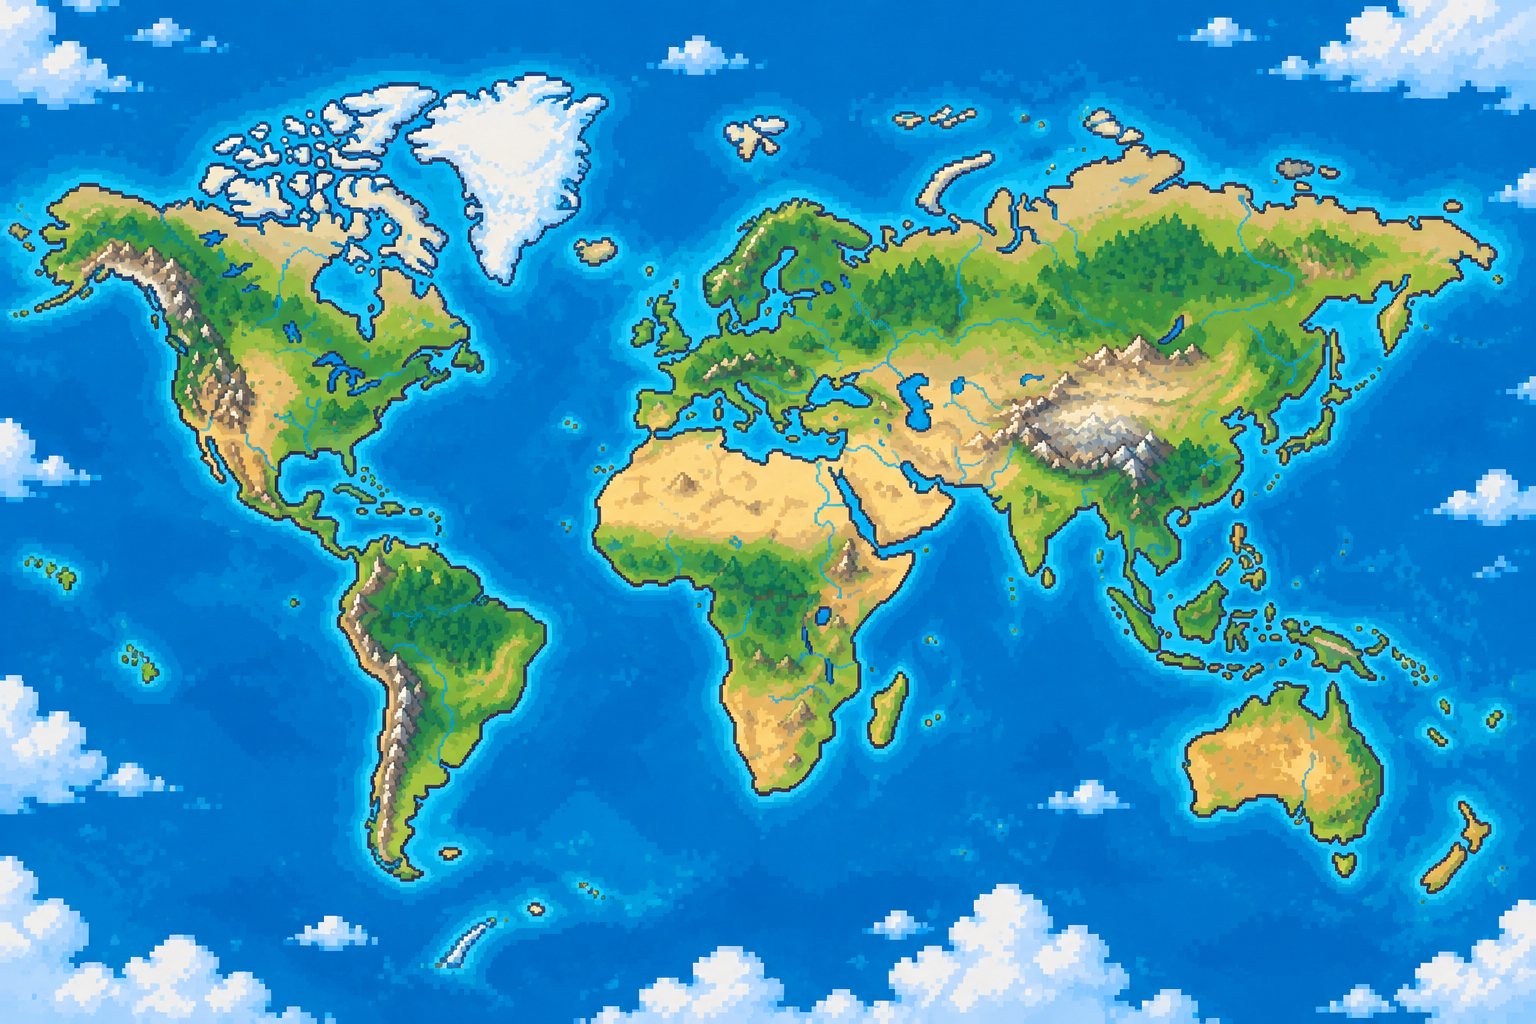
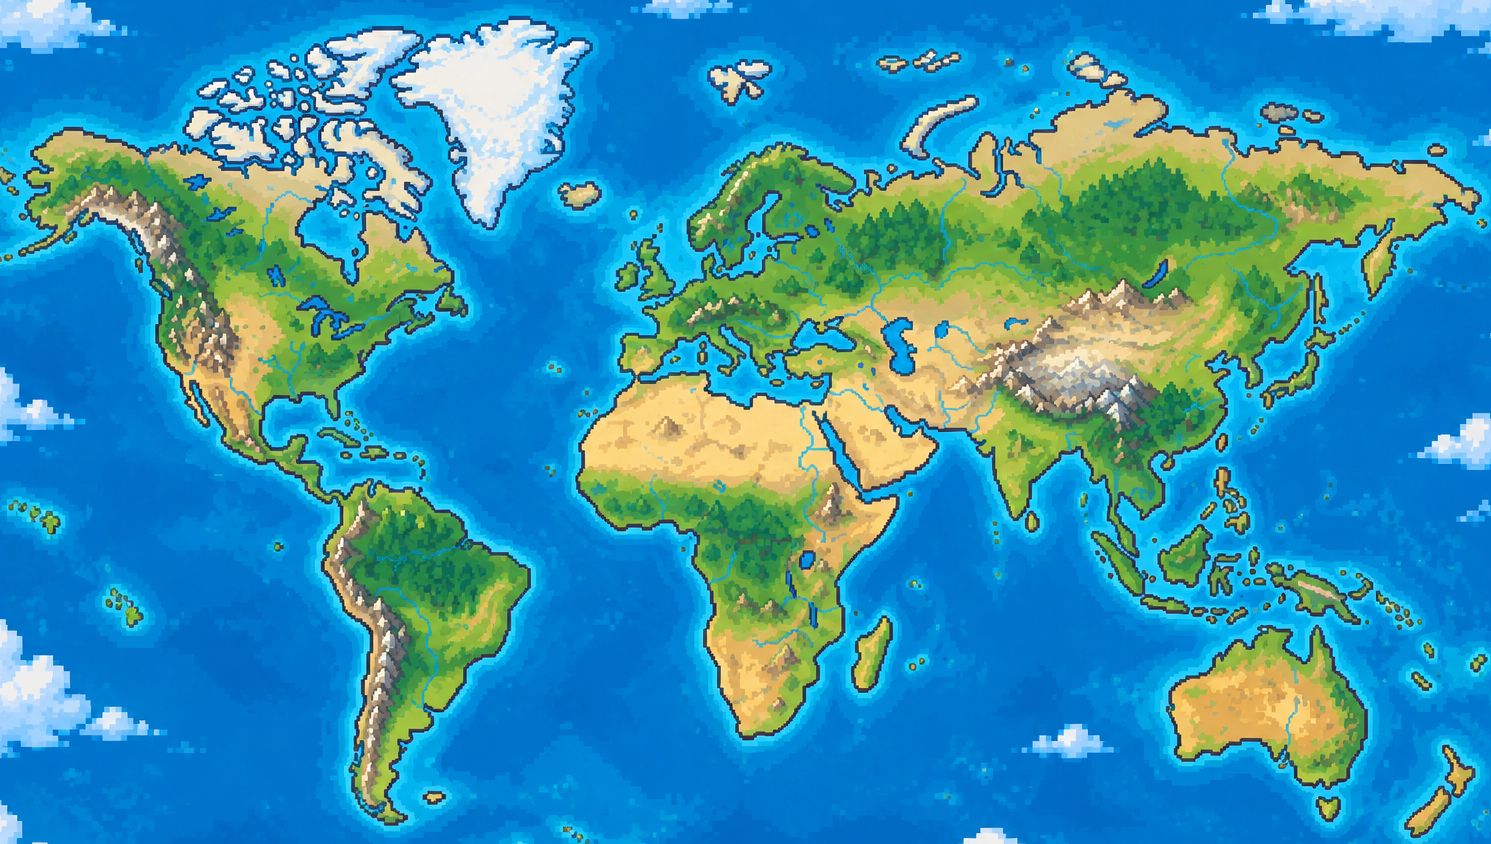
fix map + landscape phone

diff --git a/src/styles/globals.css b/src/styles/globals.css
@@ -52,6 +52,50 @@ a:focus-visible {
   text-transform: uppercase;
 }
 
+.rotate-overlay {
+  display: none;
+}
+
+/* In landscape, a phone's height equals its portrait width, so gate on height
+   (not width) to catch wide phones like the iPhone XR (896x414). */
+@media (orientation: landscape) and (max-height: 500px) {
+  .rotate-overlay {
+    position: fixed;
+    inset: 0;
+    z-index: 9999;
+    display: flex;
+    flex-direction: column;
+    align-items: center;
+    justify-content: center;
+    gap: 0.75rem;
+    padding: 1.5rem;
+    background: #ece9df;
+    text-align: center;
+    overflow: hidden;
+  }
+}
+
+.rotate-overlay__icon {
+  width: min(7rem, 28vw);
+  height: auto;
+  image-rendering: pixelated;
+}
+
+.rotate-overlay__title {
+  margin: 0;
+  font-family: var(--font-game);
+  font-size: 1.75rem;
+  letter-spacing: 1px;
+  color: #1a1a1a;
+}
+
+.rotate-overlay__subtitle {
+  margin: 0;
+  font-family: var(--font-body);
+  font-size: 0.85rem;
+  color: rgba(0, 0, 0, 0.65);
+}
+
 @media (prefers-reduced-motion: reduce) {
   * {
     animation-duration: 0.01ms !important;

diff --git a/src/App.tsx b/src/App.tsx
@@ -5,6 +5,7 @@ import { useDesktopWindows } from "./hooks/useDesktopWindows";
 import type { WindowDesktopProps } from "./components/windows/GameWindow";
 import GameWorld from "./components/game/GameWorld";
 import HUD from "./components/game/HUD";
+import RotateDeviceOverlay from "./components/game/RotateDeviceOverlay";
 import CharacterWindow from "./components/windows/CharacterWindow";
 import QuestWindow from "./components/windows/QuestWindow";
 import InventoryWindow from "./components/windows/InventoryWindow";
@@ -58,6 +59,7 @@ function App() {
   return (
     <div className="app">
       <GameWorld />
+      <RotateDeviceOverlay />
       <HUD
         activeWindow={isMobile ? mobileActiveWindow : null}
         onToggleWindow={handleToggleWindow}

diff --git a/src/styles/windows.css b/src/styles/windows.css
@@ -146,10 +146,6 @@
     justify-self: start;
   }
 
-  .world-map {
-    height: 14rem;
-  }
-
   .world-map__marker {
     width: 22px;
   }
@@ -759,10 +755,12 @@
 }
 
 /* World map window */
+/* Canvas keeps the native world-map.png aspect ratio at every size so
+   marker percentage coordinates always map to the same visual position. */
 .world-map {
   position: relative;
-  height: clamp(26rem, 62vh, 34rem);
   margin: -0.85rem -1rem;
+  aspect-ratio: 1491 / 844;
   overflow: hidden;
 }
 
@@ -770,7 +768,7 @@
   display: block;
   width: 100%;
   height: 100%;
-  object-fit: cover;
+  object-fit: contain;
   object-position: center;
   image-rendering: pixelated;
 }

diff --git a/src/components/game/RotateDeviceOverlay.tsx b/src/components/game/RotateDeviceOverlay.tsx
@@ -1,0 +1,19 @@
+import rotatePhoneIcon from "../../assets/ui/rotate-phone.png";
+
+// Pure-CSS media query drives visibility, so this stays in sync with orientation changes automatically.
+export default function RotateDeviceOverlay() {
+  return (
+    <div className="rotate-overlay" role="alert">
+      <img
+        className="rotate-overlay__icon"
+        src={rotatePhoneIcon}
+        alt=""
+        aria-hidden="true"
+      />
+      <p className="rotate-overlay__title">Please rotate your device</p>
+      <p className="rotate-overlay__subtitle">
+        This experience works best in portrait.
+      </p>
+    </div>
+  );
+}

diff --git a/src/components/windows/GameWindow.tsx b/src/components/windows/GameWindow.tsx
@@ -47,8 +47,10 @@ export default function GameWindow({
       0,
       Math.max(window.innerWidth - rect.width, 0),
     );
+    // The map opens a bit higher than dead-center for better visual balance.
+    const verticalBias = size === "map" ? window.innerHeight * 0.05 : 0;
     const top = clamp(
-      (window.innerHeight - rect.height) / 2,
+      (window.innerHeight - rect.height) / 2 - verticalBias,
       0,
       Math.max(window.innerHeight - rect.height, 0),
     );

diff --git a/src/data/destinations.ts b/src/data/destinations.ts
@@ -5,15 +5,15 @@ export const destinations: Destination[] = [
     id: "toronto",
     name: "Toronto",
     country: "Canada",
-    x: 27,
-    y: 35,
+    x: 26.74,
+    y: 35.83,
   },
   {
     id: "el-nido",
     name: "El Nido",
     country: "Philippines",
-    x: 78,
-    y: 56,
+    x: 79.28,
+    y: 61.31,
     description: "Placeholder memory of El Nido, waiting for the real story.",
   },
 ];
